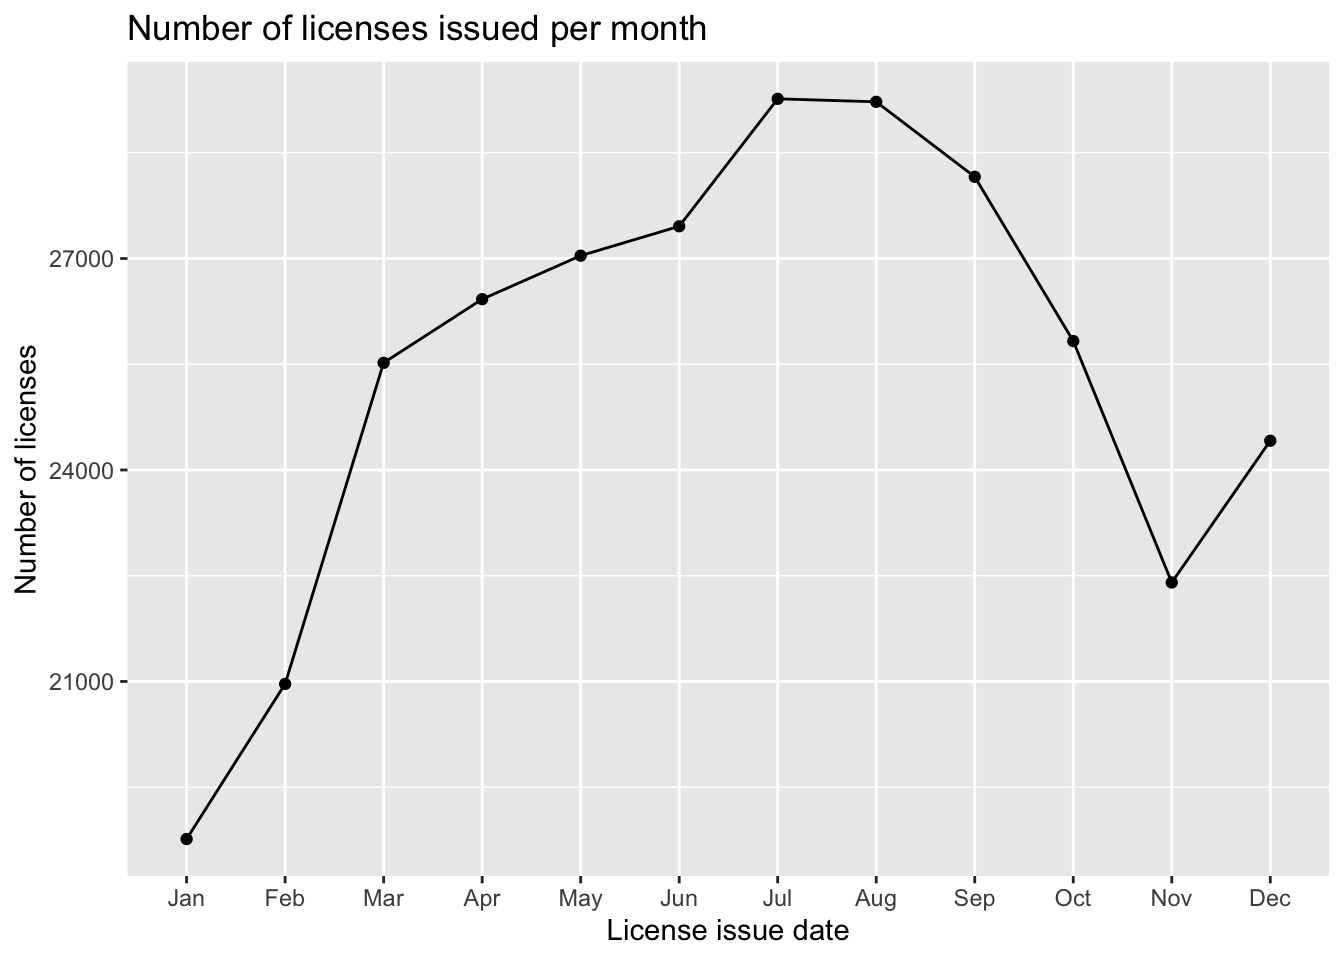
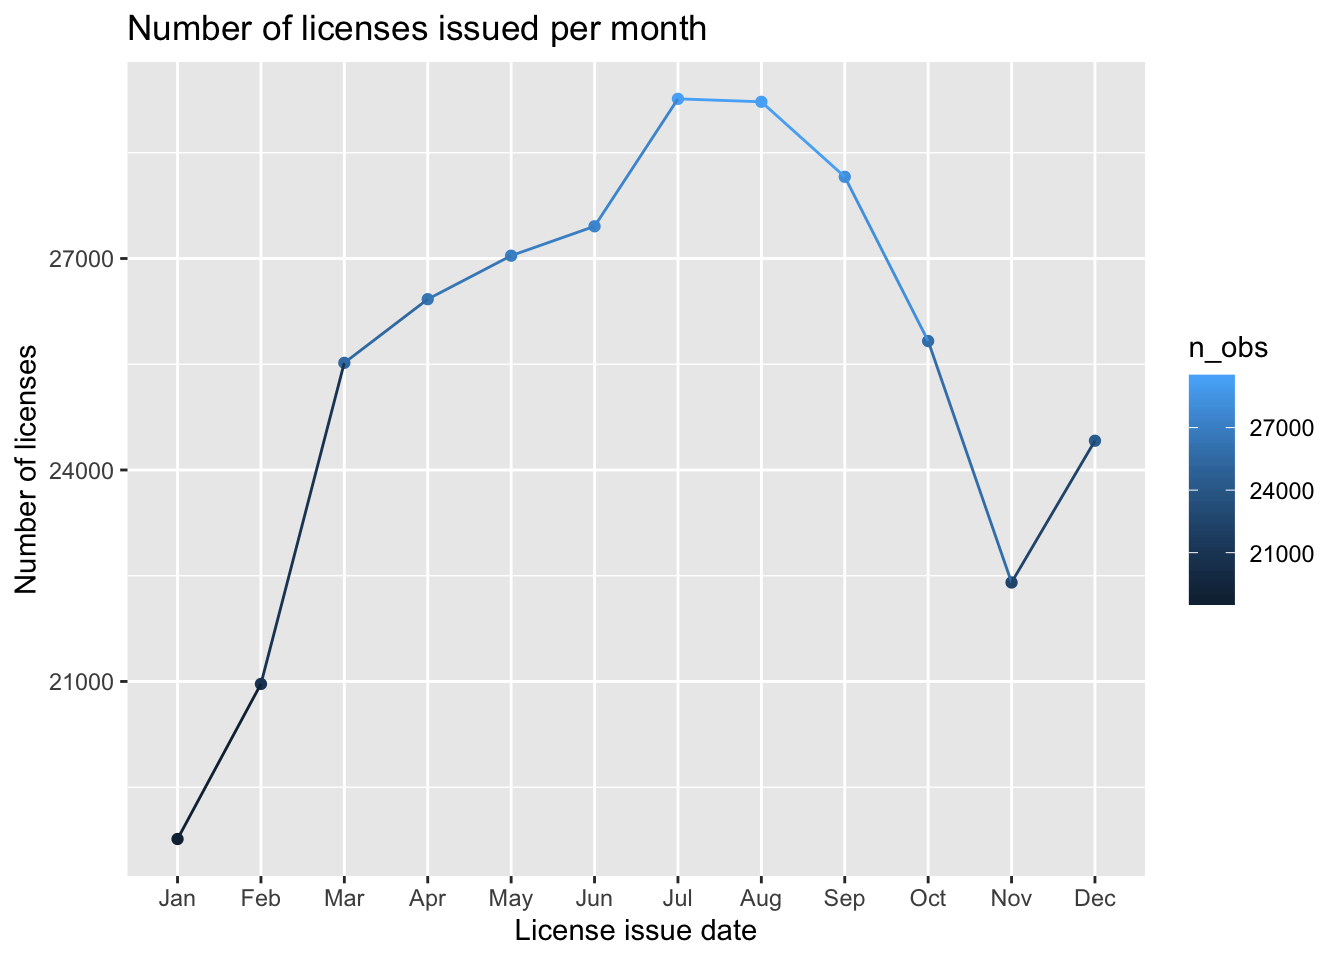
added color to plot and modified text

diff --git a/p8105_final_project_report.html b/p8105_final_project_report.html
@@ -410,10 +410,6 @@ library(leaflet)</code></pre>
 <h1>Motivation</h1>
 <p>The motivation of this project was to compare dog based data across the various boroughs of NYC to deepen our understanding of the current patterns and trends among canines in NYC. We were able to do this by using the NYC DOMHM Dog Licensing Dataset from 2017 - 2019 to accomplish this goal.</p>
 <p><span class="math inline">\(~\)</span></p>
-<div id="goals-of-our-project" class="section level2">
-<h2>Goals of our project</h2>
-<p><span class="math inline">\(~\)</span></p>
-</div>
 </div>
 <div id="related-work" class="section level1">
 <h1>Related Work</h1>
@@ -615,7 +611,7 @@ plot_5.5</code></pre>
          license_issued_date = factor(license_issued_date, c(&quot;Jan&quot;,&quot;Feb&quot;, &quot;Mar&quot;, &quot;Apr&quot;, &quot;May&quot;, &quot;Jun&quot;, &quot;Jul&quot;,&quot;Aug&quot;, &quot;Sep&quot;, &quot;Oct&quot;,&quot;Nov&quot;, &quot;Dec&quot;), ordered = TRUE)) %&gt;%
   group_by(license_issued_date) %&gt;% 
   summarize(n_obs = n()) %&gt;% 
-      ggplot(aes(x = license_issued_date, y = n_obs)) + 
+      ggplot(aes(x = license_issued_date, y = n_obs, color = n_obs)) + 
       geom_point() + geom_line(group=1) +
       labs(title = &quot;Number of licenses issued per month&quot;, 
       x = &quot;License issue date&quot;, 
